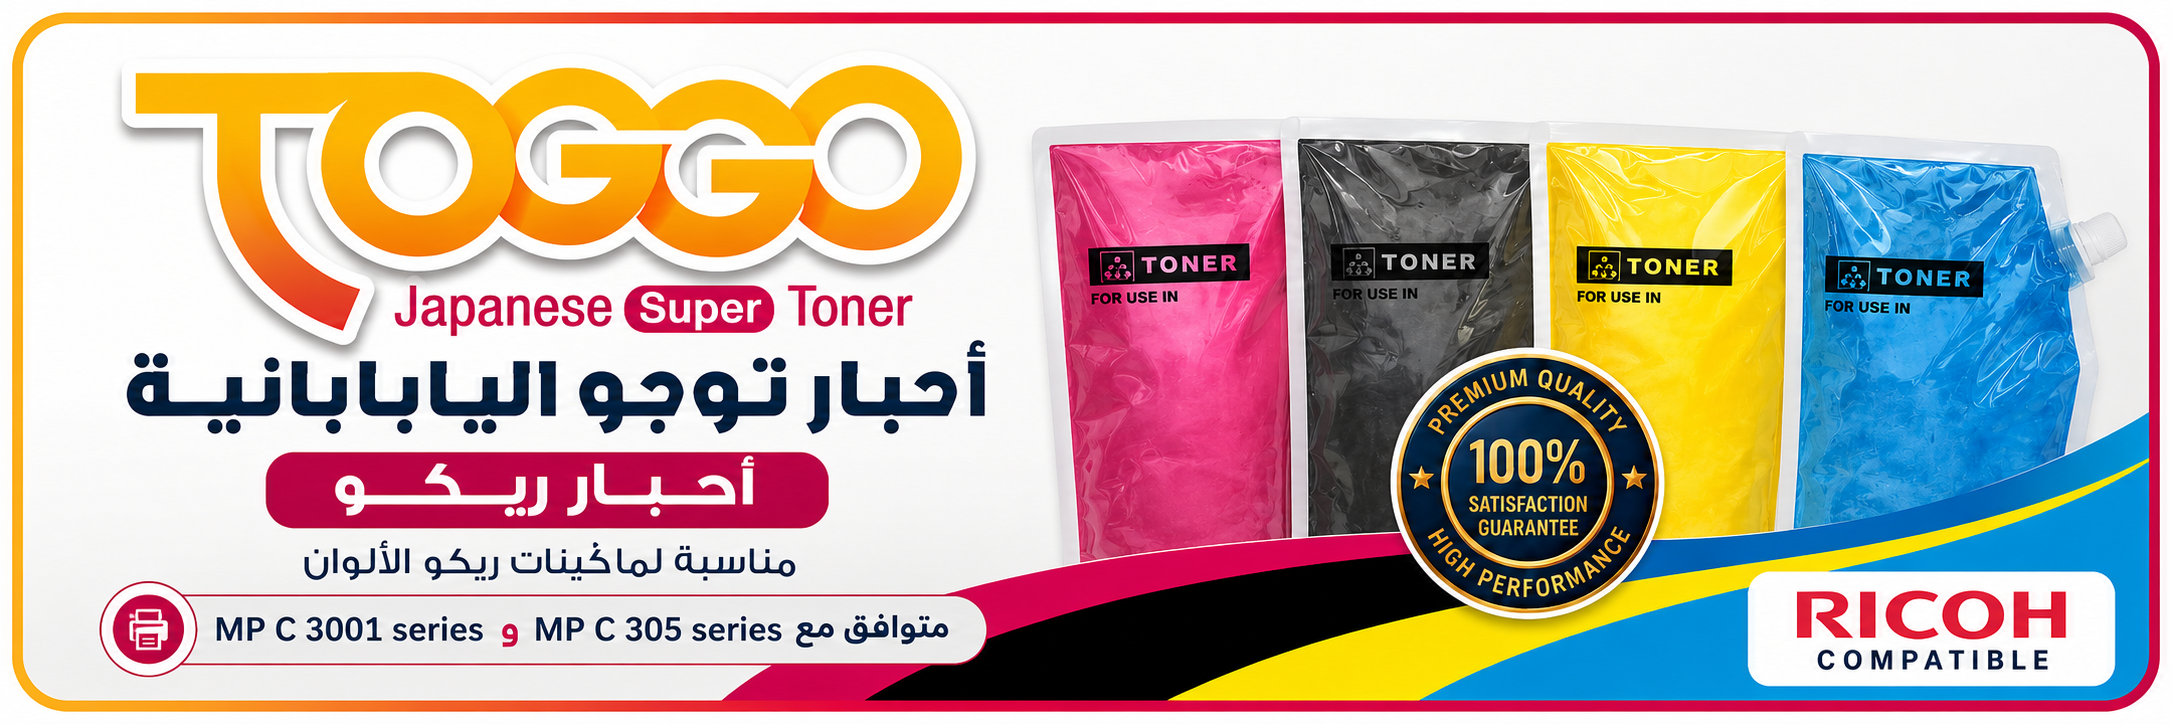
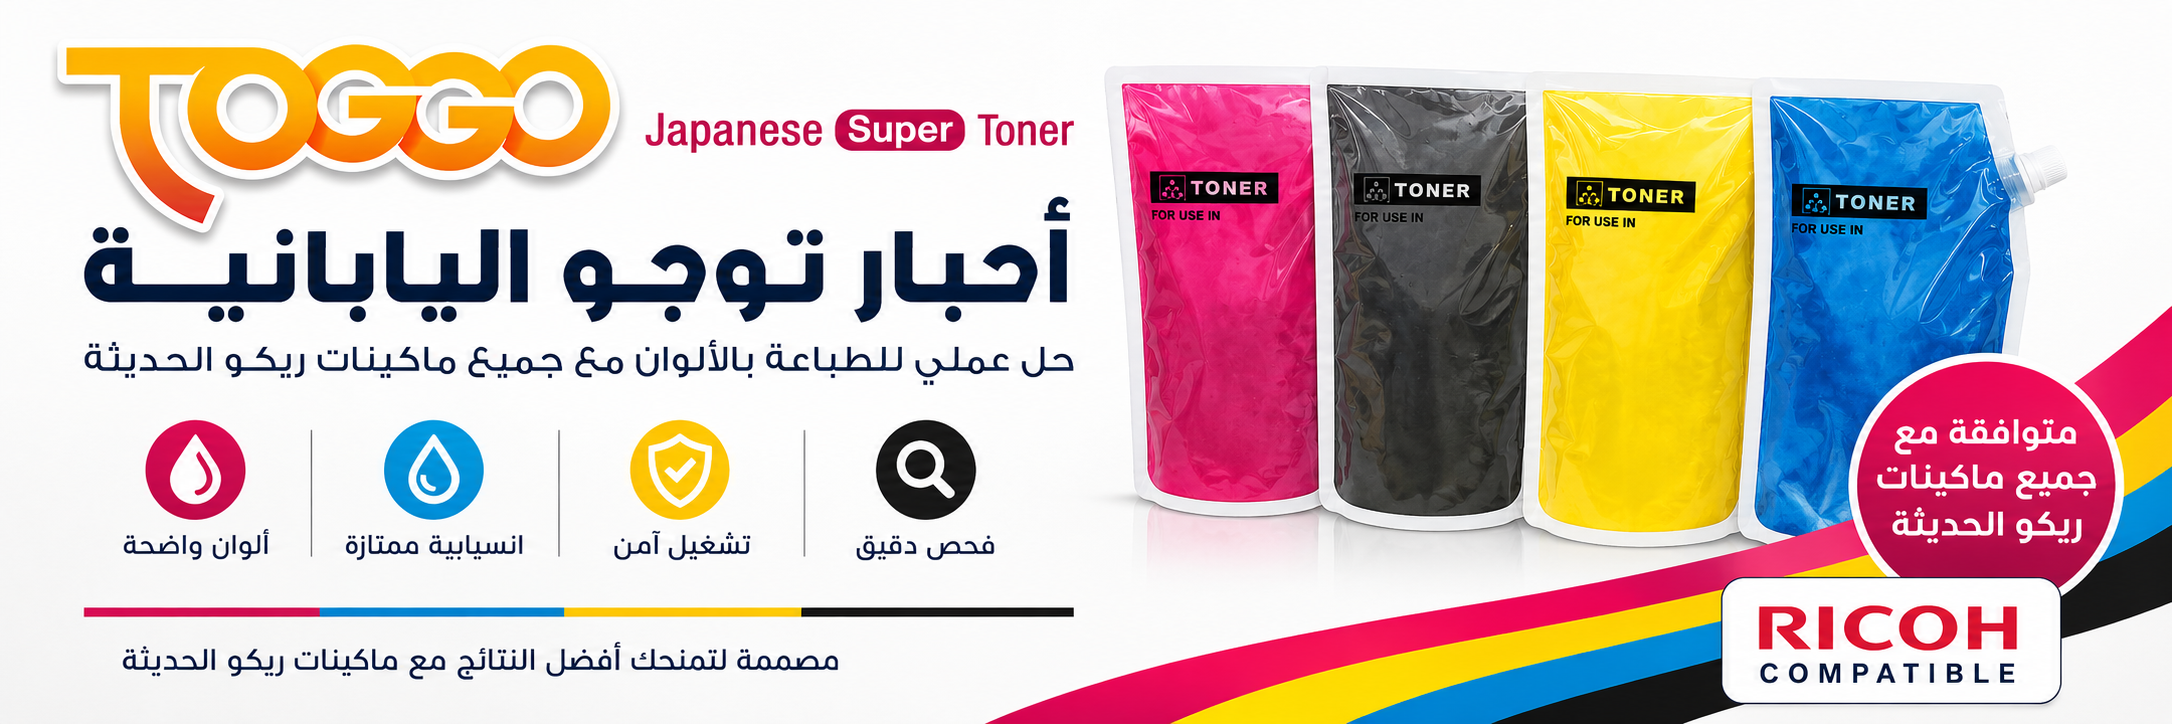
Add files via upload

diff --git a/index.html b/index.html
@@ -293,7 +293,10 @@
     </header>
 
     <div class="hero-banner-box">
-        <img src="header.jpeg" alt="بانر شركة العدل" onerror="this.src=''">
+        <!-- صورة الكمبيوتر -->
+        <img src="header-pc.png" alt="بانر شركة العدل" class="hidden md:block">
+        <!-- صورة الموبايل -->
+        <img src="header-mobile.png" alt="بانر شركة العدل" class="block md:hidden">
     </div>
 
     <main id="page-home" class="page-section active">
